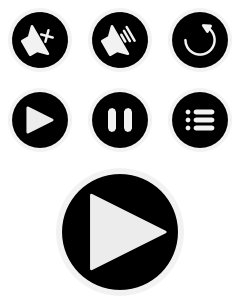
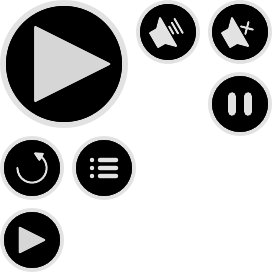
First experiments with dynamic atlas generation

diff --git a/src/scripts/app/data/atlases/buttons.js b/src/scripts/app/data/atlases/buttons.js
@@ -1,0 +1,39 @@
+export default {
+  frames: {
+    'button-audio': {
+      frame: { x: 136, y: 0, w: 64, h: 64 },
+      spriteSourceSize: { x: 0, y: 0, w: 64, h: 64 },
+      sourceSize: { w: 64, h: 64 }
+    },
+    'button-back': {
+      frame: { x: 0, y: 136, w: 64, h: 64 },
+      spriteSourceSize: { x: 0, y: 0, w: 64, h: 64 },
+      sourceSize: { w: 64, h: 64 }
+    },
+    'button-menu': {
+      frame: { x: 72, y: 136, w: 64, h: 64 },
+      spriteSourceSize: { x: 0, y: 0, w: 64, h: 64 },
+      sourceSize: { w: 64, h: 64 }
+    },
+    'button-mute': {
+      frame: { x: 208, y: 0, w: 64, h: 64 },
+      spriteSourceSize: { x: 0, y: 0, w: 64, h: 64 },
+      sourceSize: { w: 64, h: 64 }
+    },
+    'button-pause': {
+      frame: { x: 208, y: 72, w: 64, h: 64 },
+      spriteSourceSize: { x: 0, y: 0, w: 64, h: 64 },
+      sourceSize: { w: 64, h: 64 }
+    },
+    'button-resume': {
+      frame: { x: 0, y: 208, w: 64, h: 64 },
+      spriteSourceSize: { x: 0, y: 0, w: 64, h: 64 },
+      sourceSize: { w: 64, h: 64 }
+    },
+    'button-start': {
+      frame: { x: 0, y: 0, w: 128, h: 128 },
+      spriteSourceSize: { x: 0, y: 0, w: 128, h: 128 },
+      sourceSize: { w: 128, h: 128 }
+    },
+  }
+};

diff --git a/src/scripts/app/data/atlases/levels.js b/src/scripts/app/data/atlases/levels.js
@@ -1,0 +1,39 @@
+export default {
+  frames: {
+    'button-lvl-1': {
+      frame: { x: 0, y: 140, w: 80, h: 80 },
+      spriteSourceSize: { x: 0, y: 0, w: 80, h: 80 },
+      sourceSize: { w: 80, h: 80 }
+    },
+    'button-lvl-2': {
+      frame: { x: 88, y: 140, w: 80, h: 80 },
+      spriteSourceSize: { x: 0, y: 0, w: 80, h: 80 },
+      sourceSize: { w: 80, h: 80 }
+    },
+    'button-lvl-3': {
+      frame: { x: 250, y: 0, w: 80, h: 80 },
+      spriteSourceSize: { x: 0, y: 0, w: 80, h: 80 },
+      sourceSize: { w: 80, h: 80 }
+    },
+    'button-lvl-4': {
+      frame: { x: 250, y: 88, w: 80, h: 80 },
+      spriteSourceSize: { x: 0, y: 0, w: 80, h: 80 },
+      sourceSize: { w: 80, h: 80 }
+    },
+    'button-lvl-5': {
+      frame: { x: 0, y: 228, w: 80, h: 80 },
+      spriteSourceSize: { x: 0, y: 0, w: 80, h: 80 },
+      sourceSize: { w: 80, h: 80 }
+    },
+    'button-lvl-no': {
+      frame: { x: 88, y: 228, w: 80, h: 80 },
+      spriteSourceSize: { x: 0, y: 0, w: 80, h: 80 },
+      sourceSize: { w: 80, h: 80 }
+    },
+    'label': {
+      frame: { x: 0, y: 0, w: 242, h: 132 },
+      spriteSourceSize: { x: 0, y: 0, w: 242, h: 132 },
+      sourceSize: { w: 242, h: 132 }
+    },
+  }
+};

diff --git a/gulpfile.js/tasks/atlases.js b/gulpfile.js/tasks/atlases.js
@@ -1,0 +1,43 @@
+'use strict';
+
+
+module.exports = function (gulp, $, config) {
+
+  var fs    = require('fs');
+  var path  = require('path');
+  var merge = require('merge-stream');
+
+  var dirs = config.dirs;
+
+  // Modified version of this recipe:
+  // https://github.com/gulpjs/gulp/blob/master/docs/recipes/running-task-steps-per-folder.md
+
+  function getFolders (dir) {
+    return fs.readdirSync(dir)
+      .filter(function (file) {
+        return fs.statSync(path.join(dir, file)).isDirectory();
+      });
+  }
+
+  gulp.task('atlas', function () {
+    var folders = getFolders(dirs['raw-assets']);
+
+    var tasks = folders.map(function (folder) {
+      var spriteData = gulp.src(path.join(dirs['raw-assets'], folder, '*.png'))
+        .pipe($.spritesmith({
+          cssTemplate : 'src/atlas.template',
+          cssName     : folder + '.js',
+          imgName     : folder + '.png',
+          padding     : 8
+        }));
+
+      spriteData.img.pipe(gulp.dest(dirs['assets']));
+      spriteData.css.pipe(gulp.dest(dirs['atlases']));
+
+      return spriteData;
+    });
+
+    return merge(tasks);
+  });
+
+};

diff --git a/src/scripts/app/data/assets.js b/src/scripts/app/data/assets.js
@@ -26,6 +26,10 @@
  */
 
 
+import levels  from './atlases/levels';
+import buttons from './atlases/buttons';
+
+
 export default {
 
   // - Boot Assets ------------------------------------------------------------
@@ -59,7 +63,7 @@ export default {
     {
       'key': 'buttons',
       'type': 'atlasJSONHash',
-      'atlasURL': 'buttons.json',
+      'atlasData': buttons,
       'textureURL': 'buttons.png'
     },
 
@@ -72,7 +76,7 @@ export default {
     {
       'key': 'levels',
       'type': 'atlasJSONHash',
-      'atlasURL': 'levels.json',
+      'atlasData': levels,
       'textureURL': 'levels.png'
     },
 
